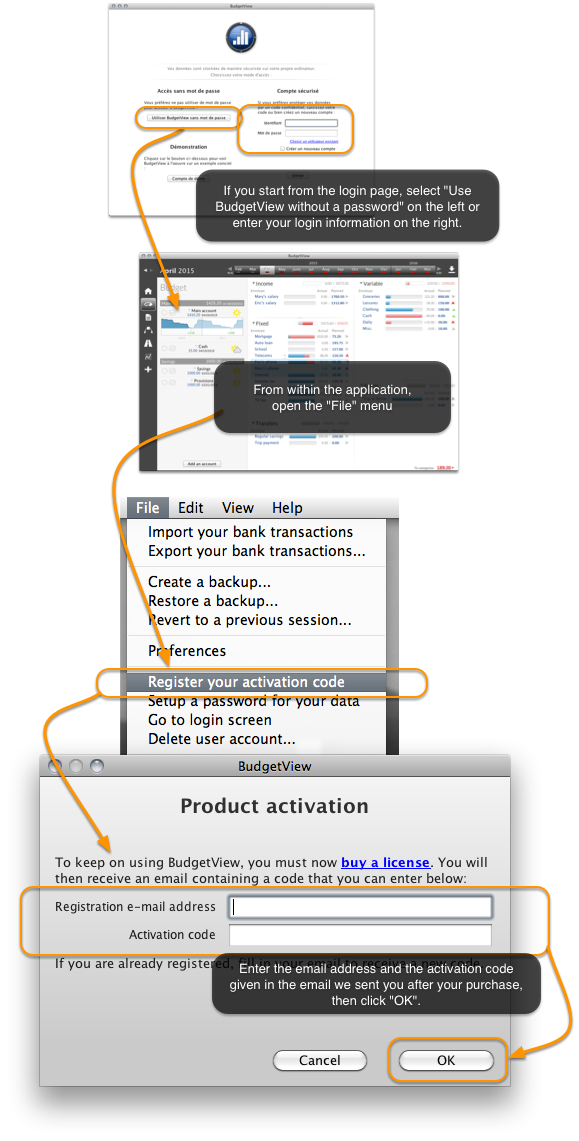
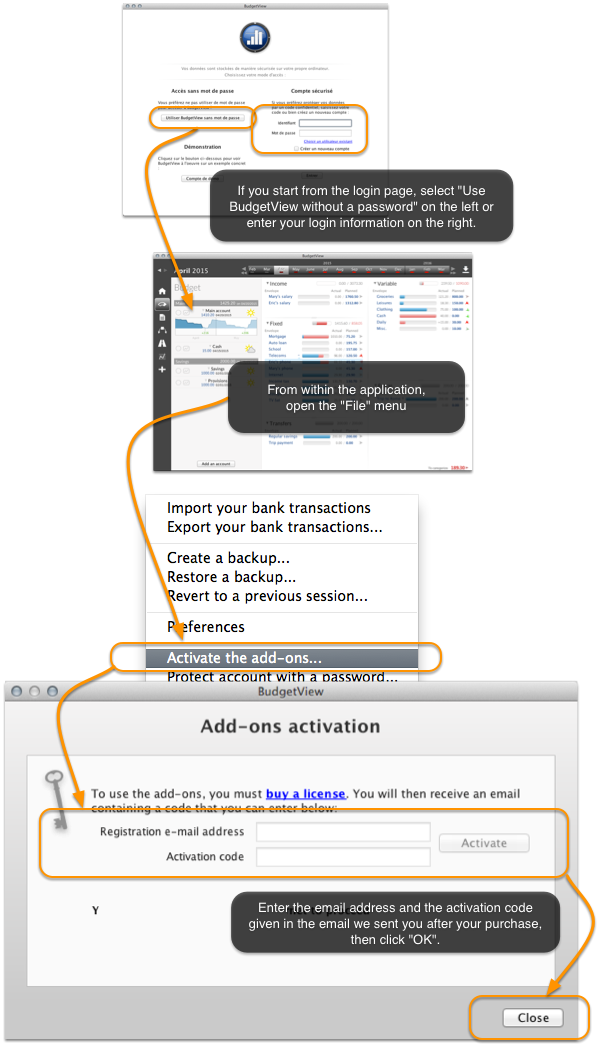
MAJ SLA et libelles pour clarifier la gratuite de l'appli

diff --git a/picsou/picsou/src/main/resources/docs/en/sla.html b/picsou/picsou/src/main/resources/docs/en/sla.html
@@ -3,94 +3,113 @@
 <h2>End-User License Agreement</h2>
 
 <p>NOTICE TO USERS: CAREFULLY READ THE FOLLOWING LEGAL AGREEMENT. USE OF BudgetView (the “SOFTWARE”) PROVIDED WITH THIS
-  AGREEMENT CONSTITUTES YOUR ACCEPTANCE OF THESE TERMS. USER'S USE OF THIS SOFTWARE IS CONDITIONED UPON COMPLIANCE BY
-  USER WITH THE TERMS OF THIS AGREEMENT.</p>
+    AGREEMENT CONSTITUTES YOUR ACCEPTANCE OF THESE TERMS. USER'S USE OF THIS SOFTWARE IS CONDITIONED UPON COMPLIANCE BY
+    USER WITH THE TERMS OF THIS AGREEMENT.</p>
 
 <h3>1. License grant</h3>
-<p>DESKTOP LICENSE - Upon issuance of a valid REGISTRATION KEY for DESKTOP LICENSE by BUDGETVIEW SARL and/or its
-  suppliers to
-  you, this EULA grants you the right to store, load, install, execute or display one copy of the SOFTWARE on one of
-  your computers (“DESKTOP COMPUTER”). If you intend to store, load, install, execute or display the SOFTWARE on
-  multiple DESKTOP COMPUTERS you need separate DESKTOP LICENSES for each DESKTOP COMPUTER, or SITE, COUNTRY, WORLDWIDE
-  LICENSE.</p>
+
+<p>SOFTWARE LICENSE - Upon installation of the BudgetView application, this EULA grants you the right to store, load,
+    install, execute or display one copy of the SOFTWARE on one of
+    Your Computers (“COMPUTER”).</p>
 
 <p>"Your Computer" means that the computer is wholly owned, rented or leased by you. "You" means the company, entity or
-  individual whose funds are used to pay the license fee.</p>
+    individual whose funds are used to pay the license fee.</p>
 
 <p>You may not modify the SOFTWARE or disable any licensing or control features of the SOFTWARE except as an intended
-  part of the SOFTWARE's programming features. This license is not transferable to any other system, or to another
-  company, entity or individual.</p>
+    part of the SOFTWARE's programming features. This license is not transferable to any other system, or to another
+    company, entity or individual.</p>
 
-<h3>2. Trial</h3>
-<p>This SOFTWARE is not free. When you first obtain a copy of the SOFTWARE, you are granted an evaluation period of not
-  more than 45 days. </p>
-<p>During the 45 day evaluation period, the SOFTWARE has no functionality limitations. If you desire to use the SOFTWARE
-  after this period, you must register to BUDGETVIEW SARL as described in the documentation accompanying the
-  SOFTWARE. </p>
-<p>Otherwise you must remove the SOFTWARE from your system. </p>
-<p>You are expected to use the SOFTWARE on your system and to thoroughly evaluate its usefulness and functionality
-  before making a purchase. This "try before you buy" approach is the ultimate guarantee that the SOFTWARE will perform
-  to your satisfaction; therefore, you understand and agree that there is no refund policy for any purchase of the
-  SOFTWARE.</p>
+<h3>2. Free version and paid extensions</h3>
 
-<h3>3. Ownership</h3>
+<p>The basic version of this SOFTWARE is free. You can use it on any computer for any length of time.</p>
+
+<p>Advanced functions called add-ons ("ADD-ONS") are paid extensions that you can purchase from BUDGETVIEW SARL.</p>
+
+<p>To use the ADD-ONS, you need to obtain an activation key ("ACTIVATION KEY") from BUDGETVIEW SARL.
+    To register your ACTIVATION KEY, you must provide the SOFTWARE access to the Internet on Your Computer.</p>
+
+<p>One ACTIVATION KEY gives you the right to use the ADD-ONS on two Computers. If you need to use the ADD-ONS on more than two Computers,
+   you have to purchase additional ACTIVATION KEYS.</p>
+
+<p>The ACTIVATION KEY is provided for You only. You cannot share, sell or transmit it to any other party.</p>
+
+<p>You are expected to use the SOFTWARE on your system and to thoroughly evaluate its usefulness and functionality,
+    as well as those of the ADD-ONS, before making a purchase. There is no refund policy for any purchase of the ADD-ONS.</p>
+
+<h3>3. Technical support</h3>
+
+<p>A technical support is provided free of charge via electronic mail at the address specified on the web site.
+    The SUPPORT is proposed in English and French only.</p>
+
+<p>BUDGETVIEW SARL provides no guarantee, expressed or implied, regarding the efficacy or continuation of
+    technical or other support for this SOFTWARE or particular version of this SOFTWARE for any length of time
+    and BUDGETVIE SARL may choose to discontinue such support at any time and for any reason, with or without notice.</p>
+
+<h3>4. Ownership</h3>
+
 <p>The SOFTWARE is owned and copyrighted by BUDGETVIEW SARL. Your license confers no title or ownership of the SOFTWARE
-  and should not be construed as a sale of any right in the SOFTWARE.</p>
+    and should not be construed as a sale of any right in the SOFTWARE.</p>
 
-<h3>4. Distribution</h3>
+<h3>5. Distribution</h3>
+
 <p>You may make and distribute unlimited copies of the SOFTWARE, as long as each copy that you make and distribute
-  contains this agreement, the SOFTWARE installer, and the same copyright and other proprietary notices pertaining to
-  this SOFTWARE. If you download the SOFTWARE from the Internet or similar on-line source, you must include the
-  BUDGETVIEW SARL
-  copyright notice for the SOFTWARE with any on-line distribution and on any media you distribute that includes the
-  SOFTWARE.</p>
+    contains this agreement, the SOFTWARE installer, and the same copyright and other proprietary notices pertaining to
+    this SOFTWARE. If you download the SOFTWARE from the Internet or similar on-line source, you must include the
+    BUDGETVIEW SARL
+    copyright notice for the SOFTWARE with any on-line distribution and on any media you distribute that includes the
+    SOFTWARE.</p>
 
-<h3>5. Restrictions</h3>
+<h3>6. Restrictions</h3>
+
 <p>You may not rent, lease, sub-license, transfer, or sell the SOFTWARE. You agree not to modify, adapt, translate,
-  reverse engineer, decompile, disassemble or otherwise attempt to discover the source code of the SOFTWARE. You may not
-  alter or modify the installer program or create a new installer for the SOFTWARE.</p>
+    reverse engineer, decompile, disassemble or otherwise attempt to discover the source code of the SOFTWARE. You may
+    not alter or modify the installer program or create a new installer for the SOFTWARE.</p>
 
-<h3>6. Copyright </h3>
+<h3>7. Copyright </h3>
+
 <p>The SOFTWARE is licensed, not sold. The SOFTWARE and all rights are owned by BUDGETVIEW SARL and/or its suppliers and
-  are
-  protected by copyright law and international copyright treaties. You acknowledge that no title to the intellectual
-  property in the SOFTWARE is transferred to you. You further acknowledge that title and full ownership rights to the
-  SOFTWARE will remain the exclusive property of BUDGETVIEW SARL and you will not acquire any rights to the SOFTWARE
-  except as
-  expressly set forth in this license. </p>
+    are protected by copyright law and international copyright treaties. You acknowledge that no title to the
+    intellectual property in the SOFTWARE is transferred to you. You further acknowledge that title and full ownership
+    rights to the SOFTWARE will remain the exclusive property of BUDGETVIEW SARL and you will not acquire any rights to
+    the SOFTWARE except as expressly set forth in this license. </p>
 
-<h3>7. Termination</h3>
+<h3>8. Termination</h3>
+
 <p>The License is in effect until terminated. You may terminate this License at any time by ceasing any and all use of
-  the SOFTWARE, and deleting or destroying the SOFTWARE. This agreement shall terminate automatically upon breach of any
-  term of this agreement. Upon termination you shall destroy all copies of the SOFTWARE. Sections titled "Ownership",
-  "Restrictions", "Copyright", "No Warranty, No Liability", "Governing Law" and "Entire Agreement" shall survive any
-  termination of this agreement. </p>
+    the SOFTWARE, and deleting or destroying the SOFTWARE on all your computers. This agreement shall terminate
+    automatically upon breach of any term of this agreement. Upon termination you shall destroy all copies of the
+    SOFTWARE. Sections titled "Ownership", "Restrictions", "Copyright", "No Warranty, No Liability",
+    "Governing Law" and "Entire Agreement" shall survive any termination of this agreement. </p>
 
-<h3>8. No Warranty, No Liability</h3>
+<h3>9. No Warranty, No Liability</h3>
+
 <p>BUDGETVIEW SARL AND ITS SUPPLIERS DO NOT AND CANNOT WARRANT THE PERFORMANCE OR RESULTS YOU MAY OBTAIN BY USING THE
-  SOFTWARE OR DOCUMENTATION. BUDGETVIEW SARL AND ITS SUPPLIERS MAKE NO WARRANTIES, EXPRESS OR IMPLIED, AS TO NON
-  INFRINGEMENT OF THIRD PARTY RIGHTS, MERCHANTABILITY, OR FITNESS FOR ANY PARTICULAR PURPOSE.
-  IN NO EVENT WILL BUDGETVIEW SARL OR ITS SUPPLIERS BE LIABLE TO YOU FOR ANY CONSEQUENTIAL,
-  INCIDENTAL OR SPECIAL DAMAGES, INCLUDING ANY LOST PROFITS OR LOST SAVINGS, EVEN IF A BUDGETVIEW SARL
-  REPRESENTATIVE HAS BEEN ADVISED OF THE POSSIBILITY OF SUCH DAMAGES, OR FOR ANY CLAIM BY ANY THIRD
-  PARTY.
-  YOU HEREBY ASSUME THE ENTIRE RISK OF ALL USE OF THE COPIES OF SOFTWARE COVERED BY THIS LICENSE.</p>
+    SOFTWARE OR DOCUMENTATION. BUDGETVIEW SARL AND ITS SUPPLIERS MAKE NO WARRANTIES, EXPRESS OR IMPLIED, AS TO NON
+    INFRINGEMENT OF THIRD PARTY RIGHTS, MERCHANTABILITY, OR FITNESS FOR ANY PARTICULAR PURPOSE.
+    IN NO EVENT WILL BUDGETVIEW SARL OR ITS SUPPLIERS BE LIABLE TO YOU FOR ANY CONSEQUENTIAL,
+    INCIDENTAL OR SPECIAL DAMAGES, INCLUDING ANY LOST PROFITS OR LOST SAVINGS, EVEN IF A BUDGETVIEW SARL
+    REPRESENTATIVE HAS BEEN ADVISED OF THE POSSIBILITY OF SUCH DAMAGES, OR FOR ANY CLAIM BY ANY THIRD
+    PARTY.
+    YOU HEREBY ASSUME THE ENTIRE RISK OF ALL USE OF THE COPIES OF SOFTWARE COVERED BY THIS LICENSE.</p>
 
-<h3>9. Governing Law </h3>
+<h3>10. Governing Law </h3>
+
 <p>This agreement is governed by the laws of France. Any claim, dispute or controversy with respect to, in connection
-  with or arising out of this agreement shall be subject to and decided by arbitration in the City of Paris, France.
-  If any part of this agreement is found void and unenforceable by a court of competent
-  jurisdiction, it will not affect the validity of the balance of the agreement, which shall remain valid and
-  enforceable according to its terms. </p>
+    with or arising out of this agreement shall be subject to and decided by arbitration in the City of Paris, France.
+    If any part of this agreement is found void and unenforceable by a court of competent jurisdiction, it will not
+    affect the validity of the balance of the agreement, which shall remain valid and
+    enforceable according to its terms. </p>
 
-<h3>10. Entire Agreement</h3>
+<h3>11. Entire Agreement</h3>
+
 <p>This is the entire agreement between you and BUDGETVIEW SARL that supersedes any prior agreement or understanding,
-  whether written or oral, relating to the subject matter of this license.</p>
+    whether written or oral, relating to the subject matter of this license.</p>
 
-<h3>Further information</h3>
+<h3>12. Further information</h3>
+
 <p>For any question, please contact BudgetView SARL, 24 rue Louis Blanc, 75010 Paris, France.
-  Our email adress: contact@mybudgetview.com</p>
+    Our email adress: contact@mybudgetview.com</p>
 
-<p>Copyright ©20010-2011 BUDGETVIEW SARL. All rights reserved.</p>
+<p>Copyright ©20010-2015 BUDGETVIEW SARL. All rights reserved.</p>
 </body>
 </html>

diff --git a/picsou/picsou/src/main/resources/docs/fr/sla.html b/picsou/picsou/src/main/resources/docs/fr/sla.html
@@ -26,11 +26,13 @@
   Logiciel seulement. Le Client n'a pas le droit d'accéder au code source du Logiciel et ne peut modifier ou créer un
   dérivé du Logiciel ou d'une partie de celui-ci.</p>
 
-<h3>2.&nbsp;Activation en ligne</h3>
+<h3>2.&nbsp;Activation en ligne des extensions</h3>
 
-<p>L'utilisation du Logiciel est sujette à la réussite d'une procédure d'enregistrement automatique utilisant le réseau
-  Internet (ci-dessous l'"Activation en ligne") ayant lieu lors du premier démarrage du Logiciel suivant l'acquisition
-  d'une licence.</p>
+<p>L'utilisation des fonctions de base du Logiciel est gratuite, sans limitation de durée. Des fonctions additionnelles
+    payantes (ci-dessous les "Extensions") sont proposées pour une utilisation avancée du Logiciel.</p>
+<p>L'utilisation des Extensions du Logiciel est sujette à la réussite d'une procédure d'enregistrement automatique
+    utilisant le réseau Internet (ci-dessous l'"Activation en ligne") ayant lieu lors du premier démarrage
+    du Logiciel suivant l'acquisition d'une licence.</p>
 <p>A. Vous devez fournir l'environnement logiciel et matériel nécessaire afin que l'Activation en ligne ait lieu. La
   modification de l'environnement matériel et/ou logiciel de votre ordinateur peut entra&icirc;ner le besoin de refaire
   l'Activation en ligne.</p>
@@ -59,9 +61,9 @@
   la qualification de propriété de la société BudgetView du Logiciel ou de tout autre propriété de la société BudgetView. Le
   Client ne doit pas retirer les indications de droit d'auteur, marque enregistrée ou autres avis de propriété dans le
   Logiciel.</p>
-<p>B. Vous ne possédez pas le droit de sous-licencier, louer à bail ou transférer le logiciel à un tiers, ni de donner
-  le logiciel en tant que garantie sans demande écrite préalable auprès de la société BudgetView.</p>
-<p>C. Vous ne devez pas effectuer d'ingénierie inverse, désassemblage ou décompilation du logiciel. Tout acte de cette
+<p>B. Vous ne possédez pas le droit de sous-licencier, louer à bail ou transférer le Logiciel à un tiers, ni de donner
+  le Logiciel en tant que garantie sans demande écrite préalable auprès de la société BudgetView.</p>
+<p>C. Vous ne devez pas effectuer d'ingénierie inverse, désassemblage ou décompilation du Logiciel. Tout acte de cette
   nature est cause de résiliation de ce Contrat.</p>
 
 
@@ -86,14 +88,14 @@
 <p>EN AUCUN CAS, INCLUANT LA NÉGLIGENCE,
   LA SOCIÉTÉ BUDGETVIEW NE SAURAIT ÊTRE TENU RESPONSABLE POUR TOUT DOMMAGES SUPPOSÉS, INDIRECTS OU CONSÉCUTIFS
   SURVENANT EN DEHORS OU EN RELATION AVEC CE CONTRAT. LA RESPONSABILITÉ ENTIÈRE DE LA SOCIÉTÉ BUDGETVIEW EST
-  LIMITÉE AU PLUS AU MONTANT PAYÉ RÉELLEMENT PAR VOUS POUR LE LOGICIEL OU 29 EUROS et 90 CENTIMES (29.90 €).</p>
+  LIMITÉE AU PLUS AU MONTANT PAYÉ RÉELLEMENT PAR VOUS POUR LE LOGICIEL OU 19 EUROS et 90 CENTIMES (19.90 €).</p>
 
 
 <h3>6.&nbsp;Assistance Technique et Mises à Jour</h3>
 
-<p>L'Assistance Technique est disponible pour les personnes ayant acheté la licence.</p>
+<p>L'Assistance Technique est disponible pour les personnes ayant acheté les Extensions du Logiciel.</p>
 <p>A.la société BudgetView fournit une assistance technique limitée (par courrier électronique ou site Web en Fran&ccedil;ais
-  seulement) au Client. L'assistance technique inclut ce qui suit :<br/>
+  et en Anglais seulement) au Client. L'assistance technique inclut ce qui suit :<br/>
   -Fournir des informations par courrier électronique ou site Web afin d'éviter des erreurs ou problèmes avec le
   Logiciel.<br/>
   -Mise à jour gratuite du logiciel au travers du site Web, ou au travers d'un système de mise à jour automatique
@@ -102,15 +104,15 @@
   puisse lui fournir des informations et mises à jour.</p>
 <p>C. Il n'y a aucune garantie pour l'assistance technique fournie sous ce Contrat. La société BudgetView ne garantit pas
   que le service d'assistance technique répondra à une requête ou demande particulière du Client. La société BudgetView
-  n'est pas responsable pour les dommages au Client d&ucirc; à la défaillance de l'assistance technique.</p>
+  n'est pas responsable pour les dommages au Client d&ucirc;s à la défaillance de l'assistance technique.</p>
 <p>D. Le Client est tenu de donner l'accès à Internet au Logiciel pour pouvoir bénéficier de ses mises à jour automatiques.</p>
 <p>E. L'obligation de la société BudgetView de fournir l'assistance technique est limitée aux services prévus dans
   l'article 6 paragraphe A. En aucun cas la société BudgetView n'a la responsabilité de fournir l'assistance technique aux
   Clients suivants :</p>
 <ul>
-  <li>Les Clients qui ont acheté ou obtenu une licence pour le Logiciel d'une manière interdite par la société BudgetView
+  <li>Les Clients qui ont acheté ou obtenu une licence pour les Extensions du Logiciel d'une manière interdite par la société BudgetView
     ;</li>
-  <li>Les Clients qui soumettent dans une langue autre que le fran&ccedil;ais ;</li>
+  <li>Les Clients qui soumettent dans une langue autre que le Fran&ccedil;ais ou l'Anglais ;</li>
   <li>Les Clients qui n'ont pas acheté de licence ou qui ne peuvent prouver qu'ils ont acheté une licence ;</li>
   <li>Les Clients utilisant la version d'évaluation du logiciel.</li>
 </ul>
@@ -132,18 +134,15 @@
   mise généralement à disposition par la société BudgetView précédemment à la période de divulgation ;(b) L'information est
   connue publiquement et généralement disponible sans votre action ou inaction ;(c) L'information est déjà en votre
   possession à la période de divulgation ;(d) L'information est obtenue par vous de la part d'un tiers sans manquement à
-  l'obligation de confidentialité de ce tiers ;(e) Linformation est développée indépendamment par l'utilisateur sans
+  l'obligation de confidentialité de ce tiers ;(e) L'information est développée indépendamment par l'utilisateur sans
   utilisation ou référence a une information confidentielle de la société BudgetView.</p>
 
 
 <h3>8.&nbsp;Termes</h3>
 
 <p>Ce contrat prend effet :</p>
-<p>A. Dans le cas d'un logiciel licencié sur la base d'une démonstration, à la date à laquelle le logiciel BudgetView est
-  installé sur l'ordinateur du Client. La licence de démonstration expire quarante-cinq (45) jours après la date
-  d'installation, date à laquelle le Client doit cesser d'utiliser le Logiciel ou
-  acheter une clef de licence auprès de la société BudgetView.</p>
-<p>B. Dans le cas d'un logiciel licencié sous une clef de licence, la date à laquelle la clef est re&ccedil;ue par le
+<p>A. Dans le cas des fonctions de base du Logiciel, au moment où celui-ci est installé sur l'ordinateur du Client.</p>
+<p>B. Dans le cas des Extensions du Logiciel, la date à laquelle la clef d'activation est re&ccedil;ue par le
   Client de la part de la société BudgetView. La délivrance de cette clef confère au Client une licence perpétuelle
   d'utilisation du Logiciel sous réserve des termes et conditions de ce Contrat.</p>
 
@@ -154,8 +153,8 @@
   BudgetView si vous manquez d'observer l'un des termes de ce Contrat.</p>
 <p>B. Ce Contrat est résilié automatiquement si l'utilisateur entre dans une licence pour une autre version du
   Logiciel.</p>
-<p>C. Le Client peut résilier ce Contrat, après avoir notifié la société BudgetView, en détruisant le Logiciel (avec le
-  manuel, tout autres documents et copies du Logiciel).</p>
+<p>C. Le Client peut résilier ce Contrat, après avoir notifié la société BudgetView, en supprimant le Logiciel
+    de ses ordinateurs (avec tous autres documents et fichiers liés au Logiciel).</p>
 <p> D. Après résiliation est quelles qu'en soient les circonstances, le Client doit cesser l'utilisation et détruire
   toutes les copies du Logiciel, documentations et clef de licence applicables.</p>
 <p>E. Après résiliation conforme à l'article 9, le Client n'est en droit de recevoir aucun remboursement de tout ou
@@ -174,15 +173,18 @@
 
 <h3>11.&nbsp;Autre</h3>
 
-<p> A. Le Client ne doit pas traduire le Logiciel dans une autre langue que le fran&ccedil;ais. Le Client ne doit pas
-  distribuer un programme ou une retouche logiciel afin de changer la langage ou tout autre réglage du Logiciel.</p>
-<p>B. Toute demande d'assistance technique doit être faite en fran&ccedil;ais.</p>
+<p> A. Le Client ne doit pas traduire le Logiciel dans une autre langue que le Fran&ccedil;ais ou l'Anglais.
+    Le Client ne doit pas distribuer un programme ou une retouche logiciel afin de changer la langage ou tout autre
+    réglage du Logiciel.</p>
+<p>B. Toute demande d'assistance technique doit être faite en Fran&ccedil;ais ou en Anglais.</p>
 <p>C. Ce Contrant abroge tout contrat précédent entre les parties (s'il existe).</p>
 <p>D. Vous observez toutes lois, règlements, décisions et jugements de toute autorité gouvernementale relative à
   l'exportation et l'importation du Logiciel, incluant mais sans y être limité aux règles de contr&ocirc;le
   d'exportation et de destination des marchandises Françaises.</p>
 <p>E. Si vous avez des questions regardant ce Contrat ou le Logiciel, veuillez contacter la société
   BudgetView SARL, 24 rue Louis Blanc, 75010 Paris.</p>
+
+<p>Copyright ©20010-2015 BUDGETVIEW SARL. Tous droits réservés.</p>
 
 </body>
 </html>

diff --git a/picsou/picsou/website/fr/content/support/faq/general/enregistrer_code_activation.html b/picsou/picsou/website/fr/content/support/faq/general/enregistrer_code_activation.html
@@ -3,7 +3,7 @@
         <td><img src="/files/images/support/faq.png" class="faq-icon"/></td>
         <td>
             <p>
-                Lorsque vous <a href="/achat">achetez votre code d'activation</a>,
+                Lorsque vous <a href="/extensions">achetez les extensions BudgetView</a>,
                 vous recevez un email comportant&nbsp;:
             </p>
             <ul>

diff --git a/picsou/picsou/website/en/content/support/faq/general/activation_code_registration.html b/picsou/picsou/website/en/content/support/faq/general/activation_code_registration.html
@@ -3,7 +3,7 @@
         <td><img src="/files/images/support/faq.png" class="faq-icon"/></td>
         <td>
             <p>
-                When you <a href="/buy">buy</a> a license for BudgetView, you receive an email
+                When you <a href="/add-ons">purchase the BudgetView add-ons</a>, you receive an email
                 containing:
             </p>
             <ul>

diff --git a/picsou/picsou/src/main/java/org/designup/picsou/gui/license/activation/LicenseActivationDialog.java b/picsou/picsou/src/main/java/org/designup/picsou/gui/license/activation/LicenseActivationDialog.java
@@ -152,8 +152,6 @@ public class LicenseActivationDialog {
                 break;
               case ACTIVATION_FAILED_MAIL_SENT:
                 updateDialogState("license.activation.failed.mailSent", localRepository.get(User.KEY).get(User.EMAIL));
-// TODO: quel code pour ce message ?
-//                updateDialogState("license.code.invalid", localRepository.get(User.KEY).get(User.EMAIL));
                 break;
               default:
                 updateDialogState("license.activation.failed");
